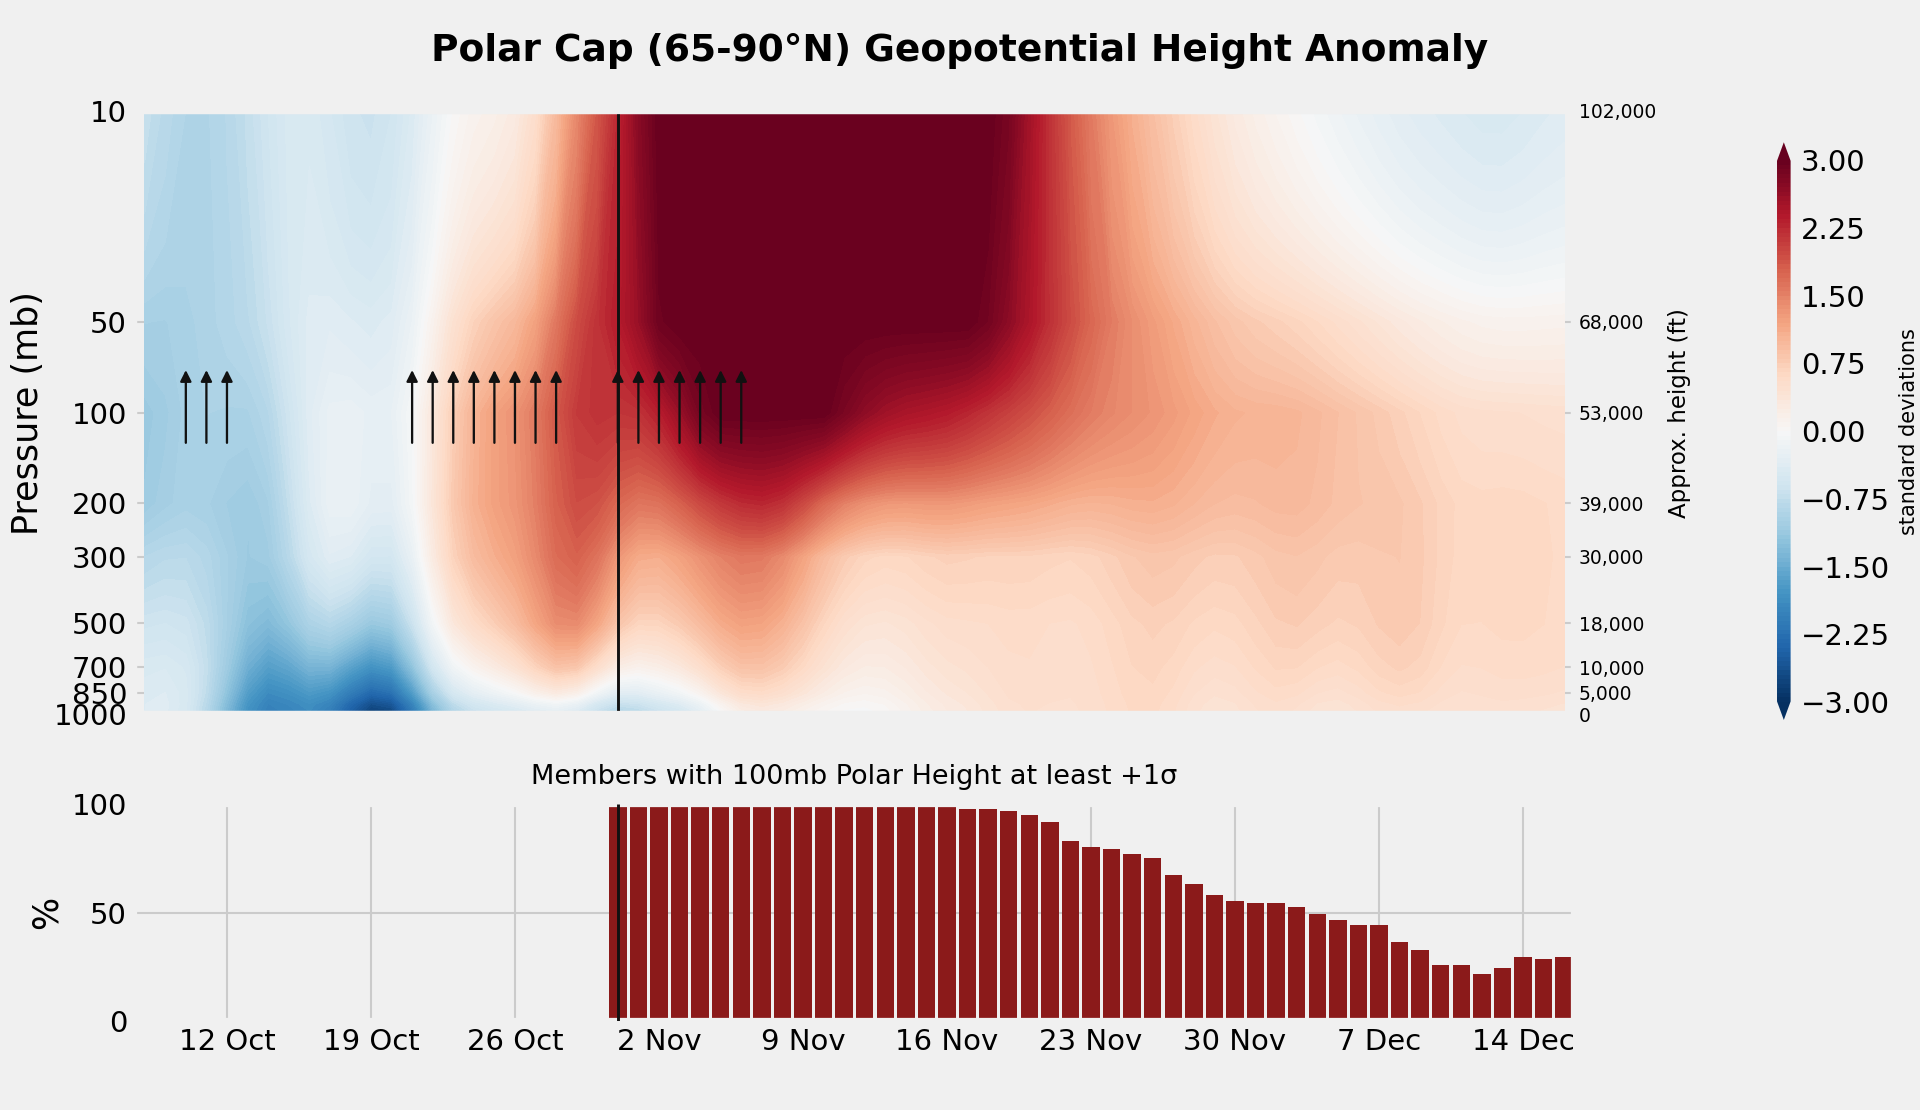
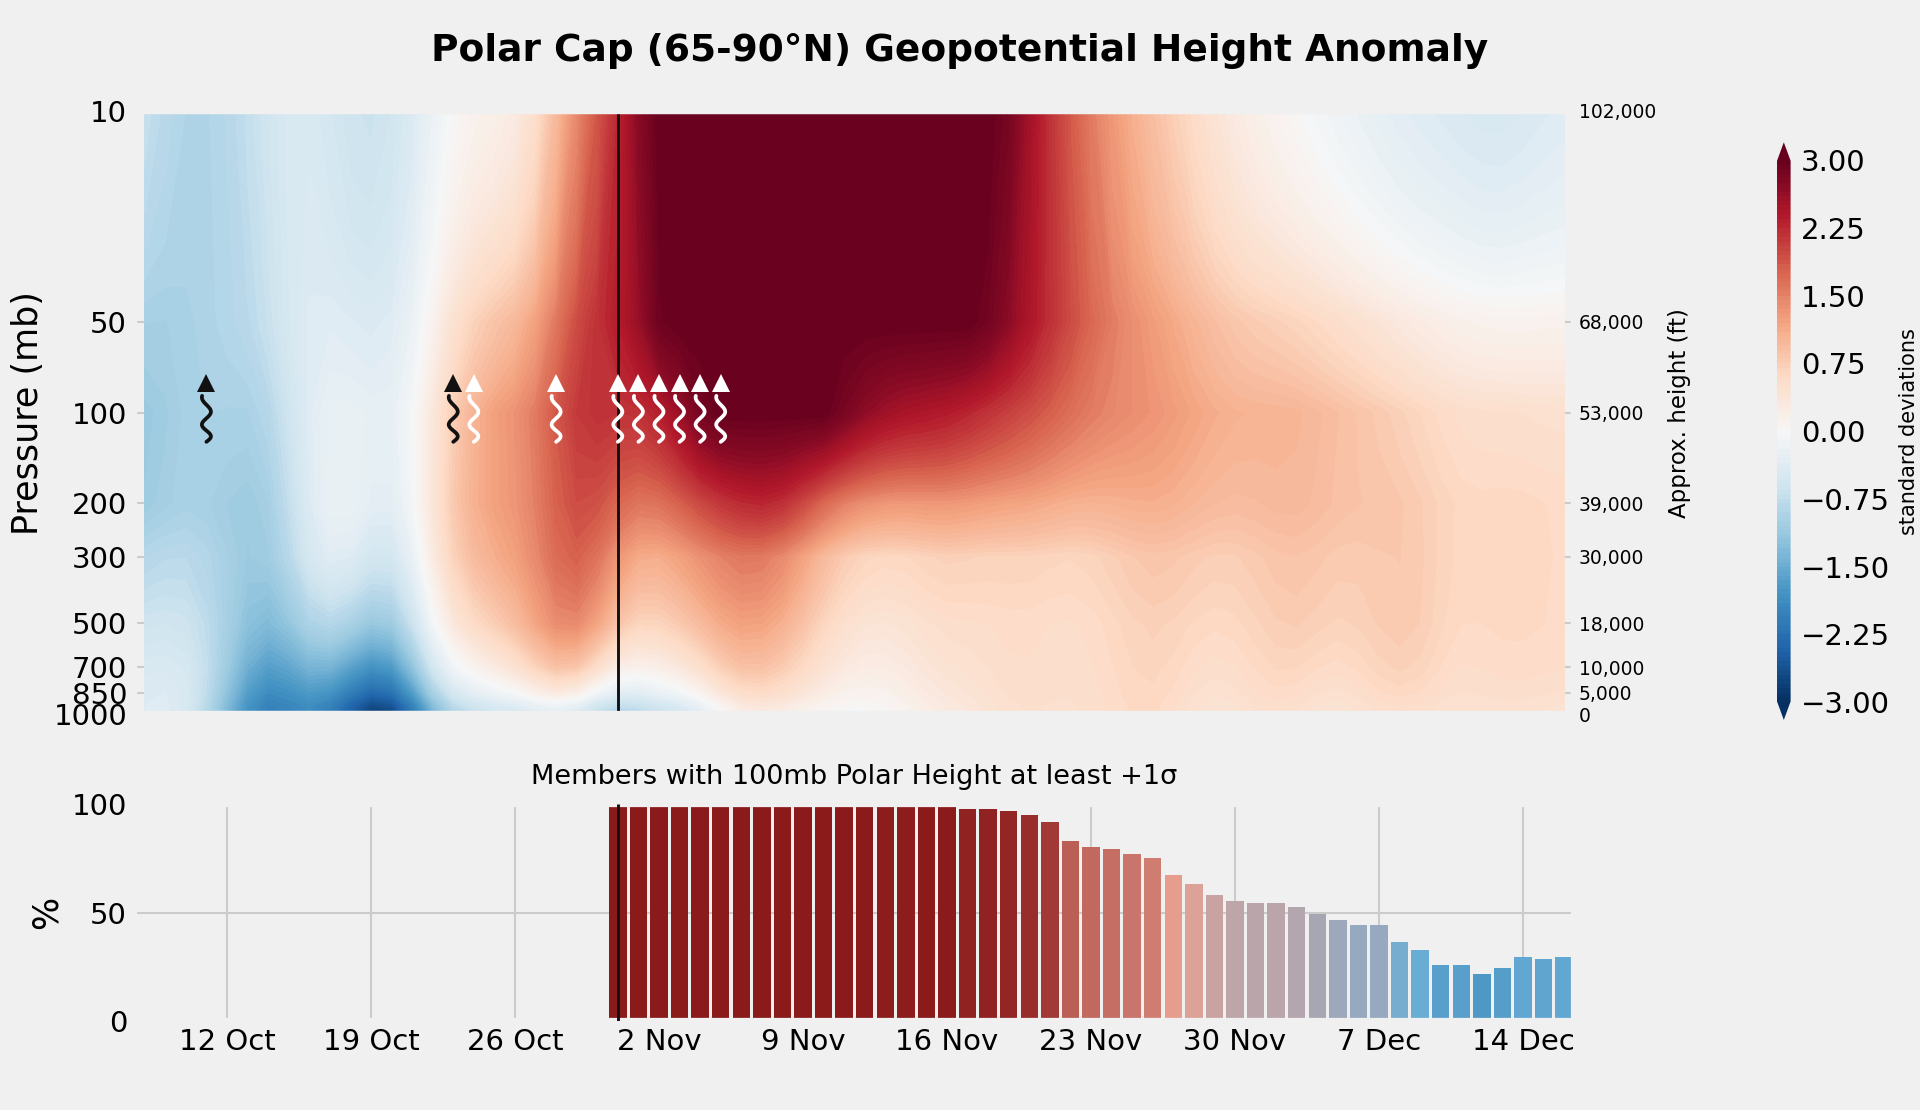
Polish polar vortex figure: p90 squiggle arrows and descent bar colors.
Adaptive black/white wave stems, red-to-blue probability bars, and page
copy without v'T' or em dashes.

Changed region(s): [[0.5312, 0.7351, 0.8438, 0.9189], [0.2188, 0.3369, 0.4062, 0.3982], [0.0938, 0.3369, 0.125, 0.3982]]

diff --git a/polar_vortex/index.html b/polar_vortex/index.html
@@ -98,7 +98,7 @@
     <p class="eyebrow"><a href="/">Weather Programmer</a> / polar vortex</p>
     <h1>Polar Vortex Diagnostics</h1>
     <p class="lede">
-      Standardized geopotential-height anomaly over the polar cap (65–90°N),
+      Standardized geopotential-height anomaly over the polar cap (65-90°N),
       from the surface to 10 mb. Red is a high polar cap (weak vortex).
       The bars are the share of ECMWF extended-range members that forecast
       downwelling into the lower stratosphere, not the troposphere.
@@ -108,14 +108,14 @@
     <div class="frame">
       <img id="chart" alt="Polar-cap geopotential-height anomaly and 100 mb descent probability" src="polar_cap_descent.png">
     </div>
-    <p class="hint">Left of the vertical line is ERA5 analysis. Right is the ECMWF extended-range ensemble mean. Climate is NCEP/NCAR Reanalysis 1, 1991–2020.</p>
+    <p class="hint">Left of the vertical line is ERA5 analysis. Right is the ECMWF extended-range ensemble mean. Climate is NCEP/NCAR Reanalysis 1, 1991-2020.</p>
 
     <div class="key">
       <h2>How to read this chart</h2>
       <p>A sudden stratospheric warming shows up here as a deep red column in the upper stratosphere. Whether it matters for surface weather depends on whether that anomaly descends.</p>
       <p>The top panel is the ensemble-mean standardized anomaly. The bottom panel is the member-by-member probability of clearing that +1σ threshold at 100 mb. High bars with little red below ~300 mb mean the ensemble still has a high polar cap aloft that has not yet coupled strongly into the troposphere.</p>
-      <p>Bias correction subtracts the model’s average lead-dependent bias, measured from about 100 IFS control reforecasts (5 nearby model dates × 20 hindcast years).</p>
-      <p>Upward arrows at 100 mb mark days when the 45–75°N eddy heat flux [v′T′] — a proxy for upward wave activity into the stratosphere — exceeds its day-of-year 75th percentile.</p>
+      <p>Bias correction subtracts the model's average lead-dependent bias, measured from about 100 IFS control reforecasts (5 nearby model dates × 20 hindcast years).</p>
+      <p>Upward arrows at 100 mb mark days when the 45-75°N eddy heat flux (a proxy for upward wave activity into the stratosphere) exceeds its day-of-year 90th percentile.</p>
       <p>ERA5 lags the open-data weeklies by a day or two. The forecast starts at the initialization; analysis stops the day before.</p>
     </div>
   </div>
